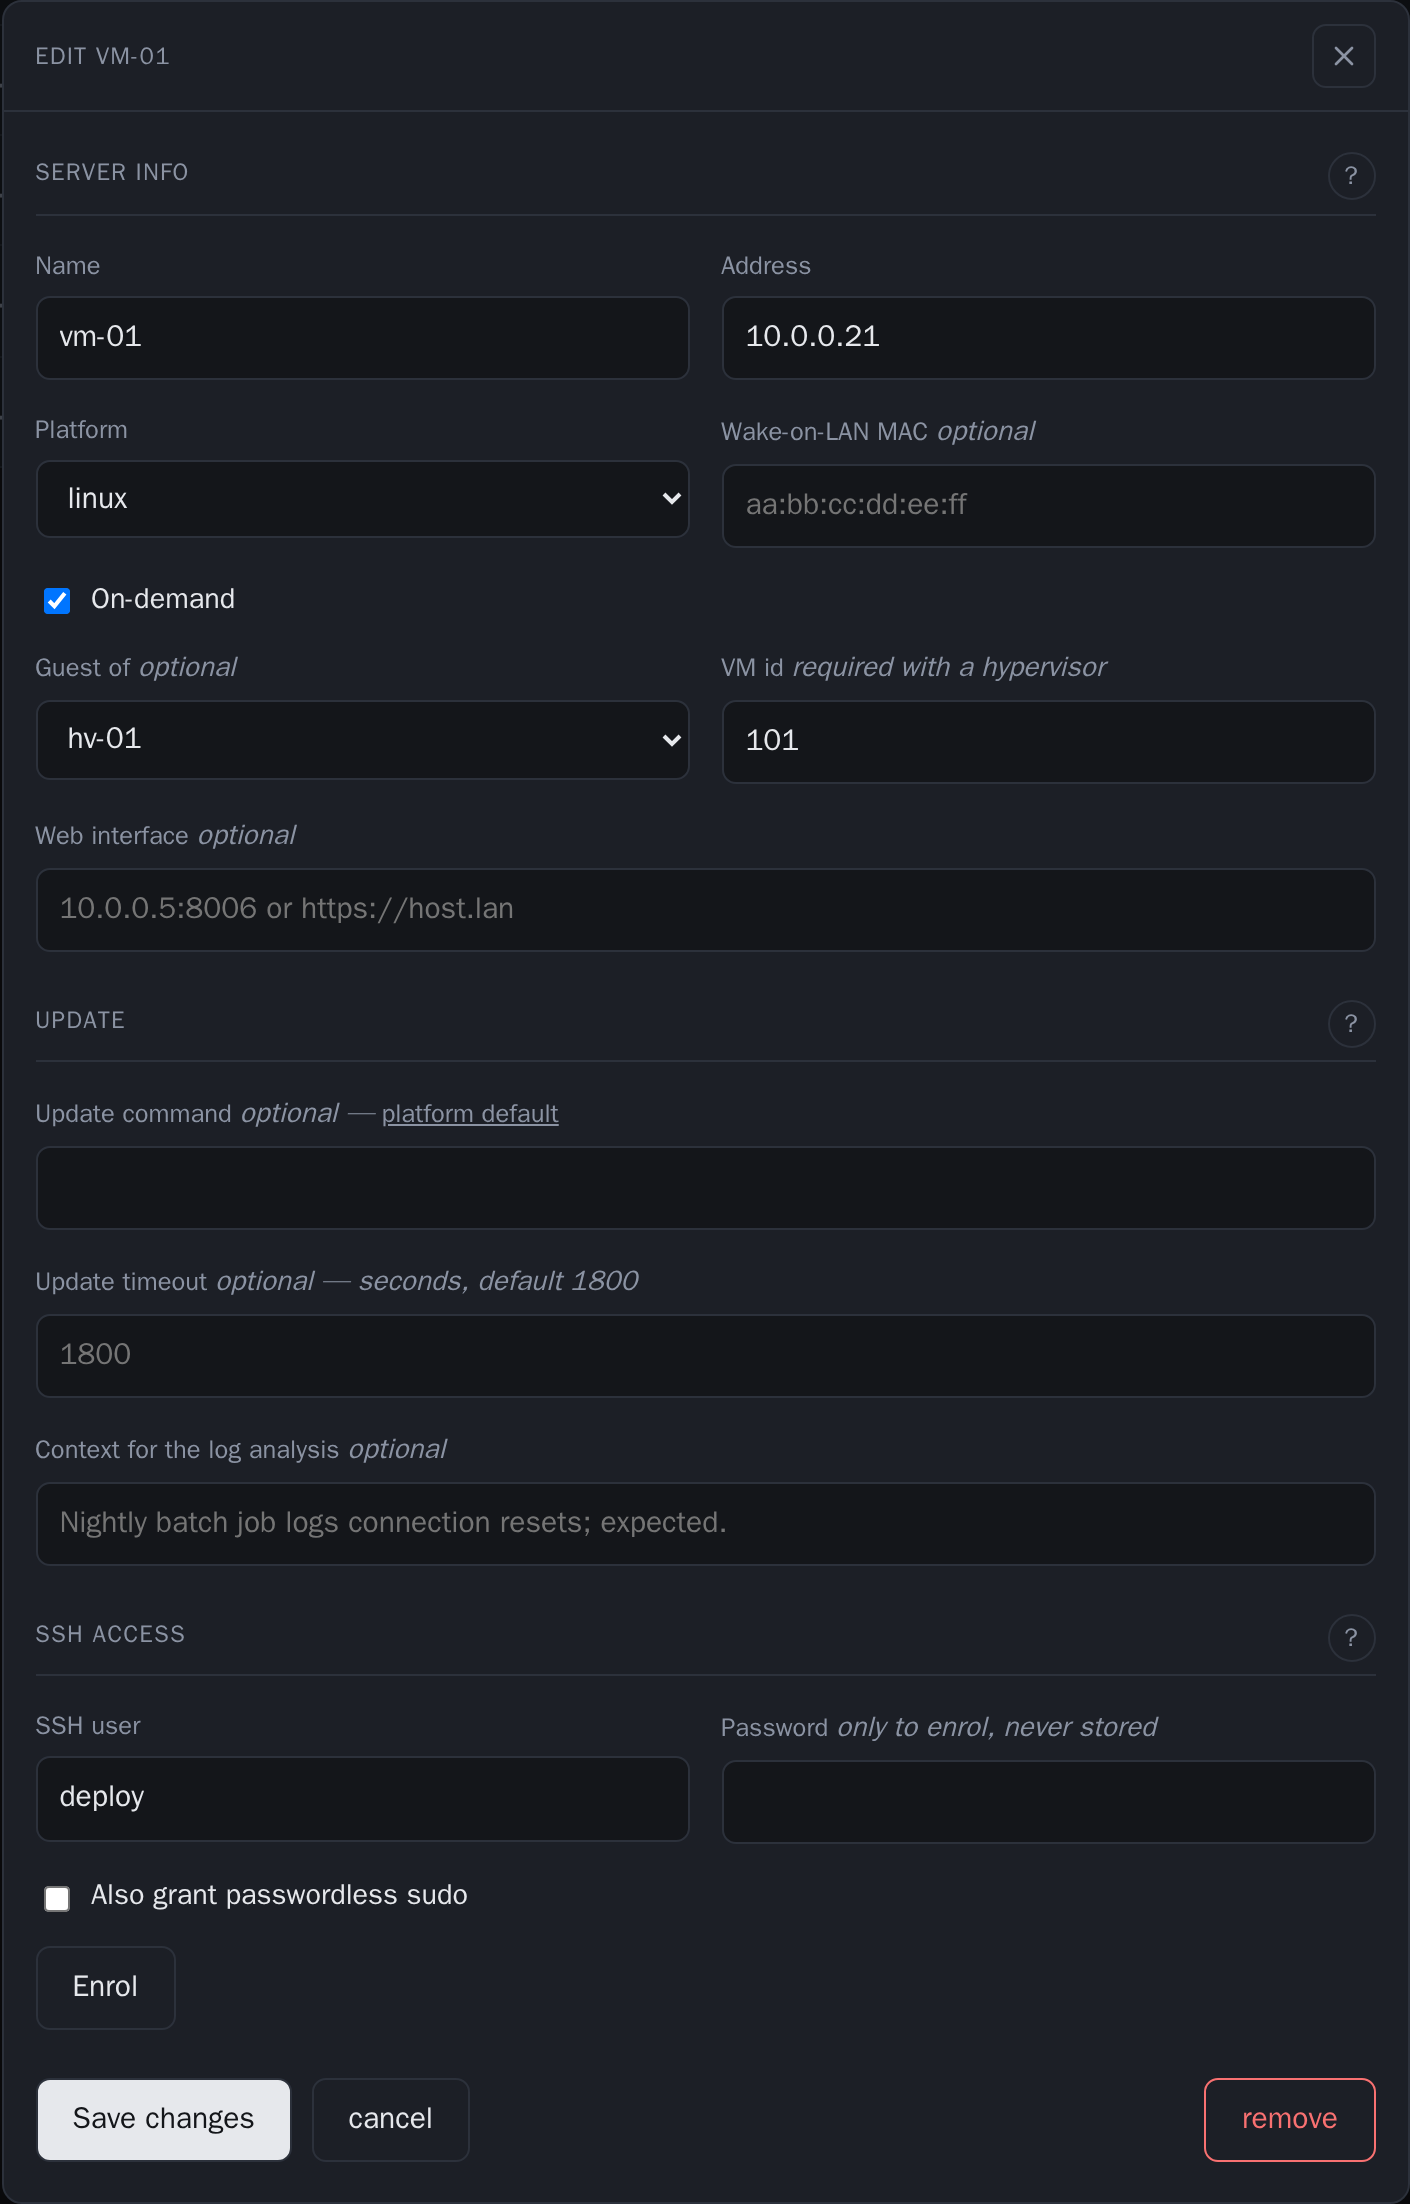
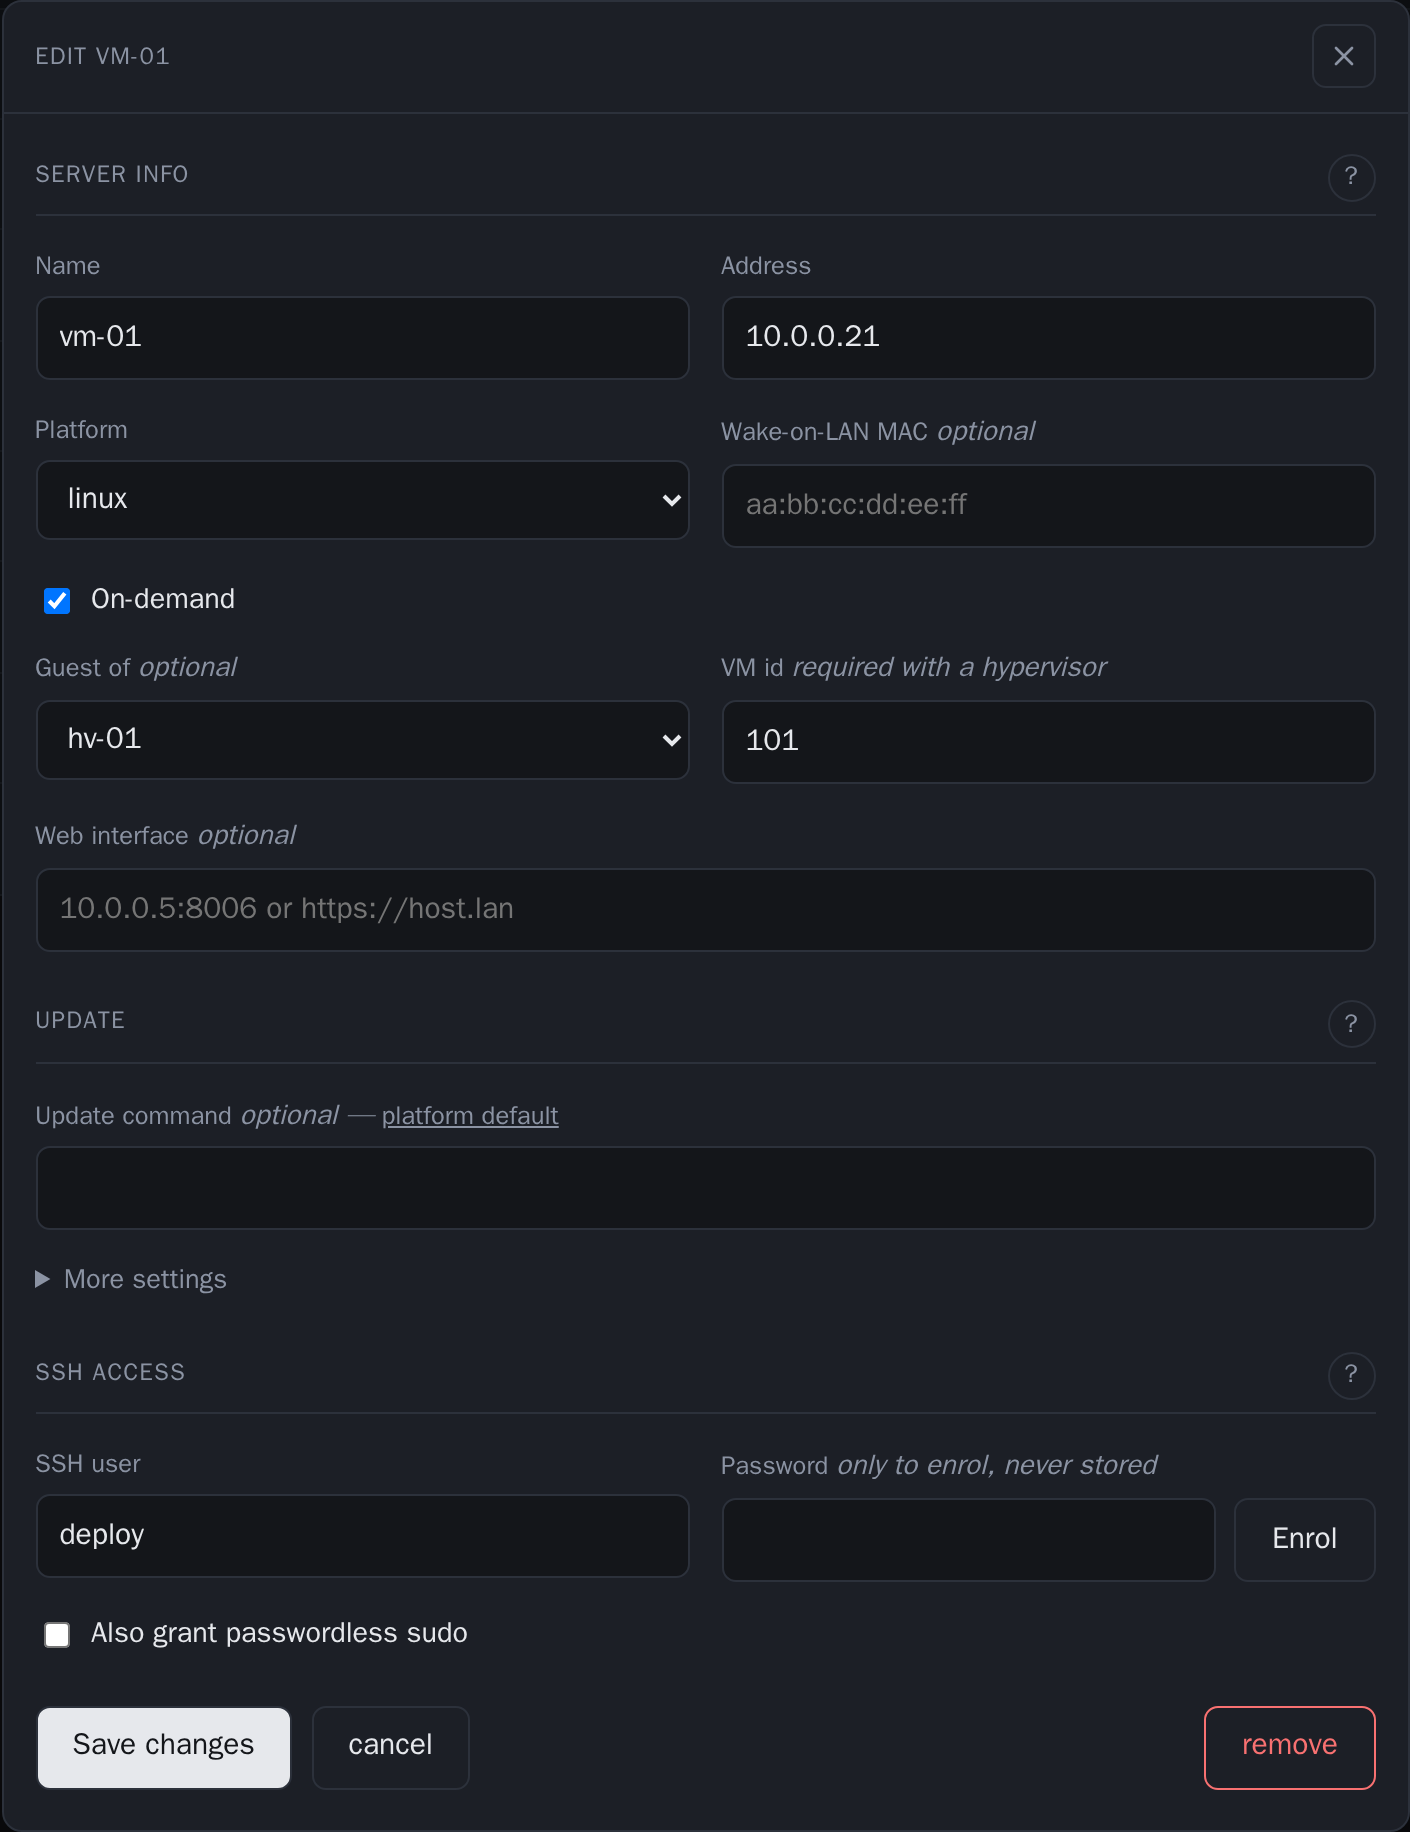
docs: screenshots and text for the visual pass
The servers, containers, reports and server-dialog screenshots were re-captured from the demo
fleet, which now has a second VM under hv-01 to show the nesting. The site's width/height
attributes follow the new sizes: servers 2560x1344, server dialog 1410x1832. The alt texts
describe what is drawn now. README 'What it does' and the site caption mention the summary
filter, the nesting, the system column, the chips and the relative times.

diff --git a/docs/index.html b/docs/index.html
@@ -232,15 +232,16 @@
   </p>
 
   <figure class="shot">
-    <img class="shot-dark" src="images/dashboard-dark.png" width="2560" height="1116"
-         alt="timar's servers page: seven machines, each with its operating system's logo before its name (Fedora, Ubuntu, Proxmox, Linux, Debian, OpenWrt, Debian), coloured by state — four green (up), two grey (asleep), one red (down). The names of running machines with a web interface are links. Each row has a power button — shut down when up, wake when asleep — and an edit button; + on the heading adds a server." />
-    <img class="shot-light" src="images/dashboard-light.png" width="2560" height="1116"
+    <img class="shot-dark" src="images/dashboard-dark.png" width="2560" height="1344"
+         alt="timar's servers page. Above the table, a summary that filters: 5 up, 2 asleep, 1 down. Eight machines, each with its operating system's logo before its name, coloured by state, and its system in the next column (Fedora 43, Ubuntu 26.04, Proxmox VE 9.2.21, Debian 13, OpenWrt 25.12.5). The hypervisor hv-01 has its two VMs nested under it. The names of running machines with a web interface are links. Each row has a power button — shut down when up, wake when asleep and wakeable — and an edit button." />
+    <img class="shot-light" src="images/dashboard-light.png" width="2560" height="1344"
          alt="The same dashboard in a light theme." />
     <figcaption>
       Each machine's logo (Debian, Ubuntu, Proxmox, OpenWrt, OctoPrint and more) takes the colour
       of its state. There are three states, not two: grey <em>asleep</em> is a machine that is
       meant to be off, and it is not painted like a fault. A status page that shows both in red teaches you to ignore
-      red. A server is added, edited, enrolled and removed from its own dialog.
+      red. The counts above the table filter it, a hypervisor's VMs sit under it, and each row
+      names the system it runs. A server is added, edited, enrolled and removed from its own dialog.
     </figcaption>
   </figure>
 </div>
@@ -430,9 +431,9 @@
 
     <figure class="shot narrow">
       <div>
-        <img class="shot-dark" src="images/server-dialog-dark.png" width="1410" height="2204"
-             alt="The edit dialog for vm-01 in three sections. Server info: name, address, platform, Wake-on-LAN MAC, On-demand ticked, Guest of hv-01 with VM id 101, web interface. Update: update command with a 'platform default' link, timeout, context for the log analysis. SSH access: user, a password used only to enrol, passwordless sudo, and an Enrol button." />
-        <img class="shot-light" src="images/server-dialog-light.png" width="1410" height="2204"
+        <img class="shot-dark" src="images/server-dialog-dark.png" width="1410" height="1832"
+             alt="The edit dialog for vm-01 in three sections. Server info: name, address, platform, Wake-on-LAN MAC, On-demand ticked, Guest of hv-01 with VM id 101, web interface. Update: update command with a 'platform default' link, and More settings folded. SSH access: user, and a password used only to enrol with the Enrol button beside it; passwordless sudo below." />
+        <img class="shot-light" src="images/server-dialog-light.png" width="1410" height="1832"
              alt="The same dialog in a light theme." />
       </div>
       <figcaption>

diff --git a/README.md b/README.md
@@ -12,7 +12,7 @@ There is a one-page tour at **[timar.tools](https://timar.tools)**.
 
 <picture>
   <source media="(prefers-color-scheme: dark)" srcset="docs/images/dashboard-dark.png">
-  <img alt="timar's servers page: seven machines, each with its operating system's logo before its name (Fedora, Ubuntu, Proxmox, Linux, Debian, OpenWrt, Debian), coloured by state — four green (up), two grey (asleep), one red (down). The names of running machines with a web interface are links. Each row has a power button — shut down when up, wake when asleep and wakeable — and an edit button; + on the heading adds a server." src="docs/images/dashboard-light.png">
+  <img alt="timar's servers page. Above the table, a summary that filters: 5 up, 2 asleep, 1 down. Eight machines, each with its operating system's logo before its name, coloured by state, and its system in the next column (Fedora 43, Ubuntu 26.04, Proxmox VE 9.2.21, Debian 13, OpenWrt 25.12.5). The hypervisor hv-01 has its two VMs nested under it. The names of running machines with a web interface are links. Each row has a power button — shut down when up, wake when asleep and wakeable — and an edit button." src="docs/images/dashboard-light.png">
 </picture>
 
 Three states, not two. *Asleep* (grey) is a machine that is **meant** to be off, and it is not
@@ -45,7 +45,7 @@ It all lands in `config.yaml` in the `timar-data` volume, which you can also edi
 
 <picture>
   <source media="(prefers-color-scheme: dark)" srcset="docs/images/server-dialog-dark.png">
-  <img width="560" alt="The edit dialog for vm-01 in three sections. Server info: name, address, platform, Wake-on-LAN MAC, On-demand ticked, Guest of hv-01 with VM id 101, web interface. Update: update command with a 'platform default' link, timeout, context for the log analysis. SSH access: user, a password used only to enrol, passwordless sudo, and an Enrol button. Save, cancel, and remove on the right." src="docs/images/server-dialog-light.png">
+  <img width="560" alt="The edit dialog for vm-01 in three sections. Server info: name, address, platform, Wake-on-LAN MAC, On-demand ticked, Guest of hv-01 with VM id 101, web interface. Update: update command with a 'platform default' link, and More settings folded. SSH access: user, and a password used only to enrol with the Enrol button beside it; passwordless sudo below. Save, cancel, and remove on the right." src="docs/images/server-dialog-light.png">
 </picture>
 
 A VM has no wake address of its own, so it names the hypervisor that starts it and inherits
@@ -153,12 +153,18 @@ first step of the job, and shutting it back down is the last.
   did not run.
 - **Its logo, in its state's colour** — each server's name has its OS's logo before it, or its
   appliance's (Proxmox, OctoPrint), green when up, grey asleep, red down. Each container project
-  has its application's logo the same way. The OS is read on
-  connections timar makes anyway (enrolment, the sweep, the update), never by the status probe.
+  has its application's logo the same way. The OS and its version ("Debian 13", "Proxmox VE 9.2")
+  are read on connections timar makes anyway (enrolment, the sweep, the update), never by the
+  status probe.
+- **The fleet at a glance** — a summary above the servers table counts each state ("13 up · 3
+  asleep · 0 down"), and each count filters the table. Sorted by name, a hypervisor's VMs sit
+  nested under it.
 - **Platform-aware** — Linux/systemd, OpenWrt and Proxmox VE each get commands that exist on
   them. A check that cannot run says so instead of reporting all-clear.
 - **Report archive** — every finished run is kept under `/reports`, so a disk creeping upward or
-  an update failing every week shows as a series. Telegram delivery is a copy, not the only one.
+  an update failing every week shows as a series. Telegram delivery is a copy, not the only one. Each run's outcome is its
+  counts as coloured chips (red failed, yellow findings, green updated), and times read relatively
+  ("2 hours ago", "in 8 hours") with the exact minute on hover.
 - **Containers** — Docker Compose projects on those machines: their state, start / stop /
   restart, and an update with every run (below).
 
@@ -177,7 +183,7 @@ The **reports** page holds the two jobs at the top and every run they finished b
 
 <picture>
   <source media="(prefers-color-scheme: dark)" srcset="docs/images/reports-dark.png">
-  <img alt="The reports page. Scheduled work: Log sweep, daily at 07:30, and Update run, every Sunday at 04:00, each with its last summary, last and next run, and run and edit buttons. Below, the archive: four finished runs with their outcome and a button that opens each report." src="docs/images/reports-light.png">
+  <img alt="The reports page. Scheduled work: Log sweep, daily at 07:30, and Update run, every Sunday at 04:00, each with its last outcome as coloured chips, last and next run in relative time, and run and edit buttons. Below, chips filter the archive by job, and four finished runs show their outcome as chips — yellow findings, red unreachable or failed, green updated or all clear, grey asleep or skipped." src="docs/images/reports-light.png">
 </picture>
 
 - **run** starts a job now; while it runs the button becomes **stop**, which asks first. The job
